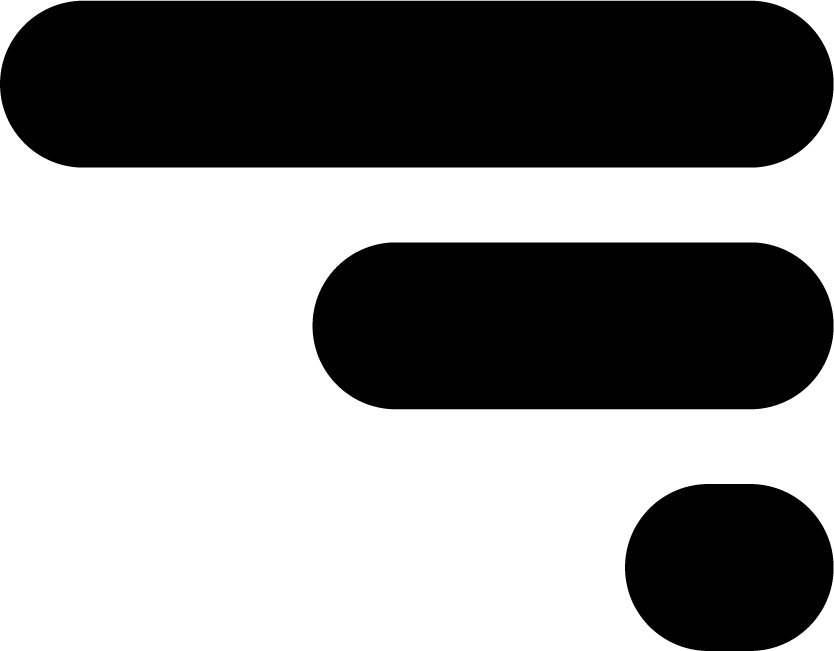
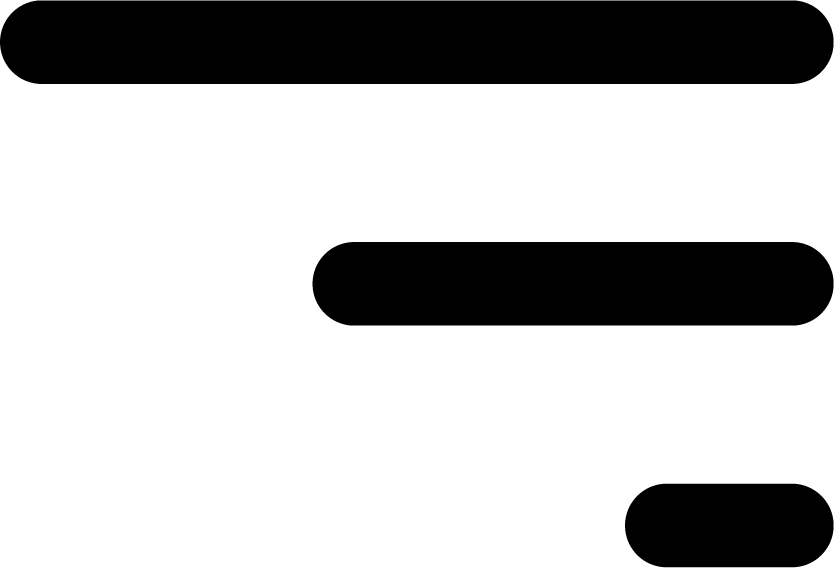
ahwerweuarj

diff --git a/Portfolio/src/components/FirstSection.vue b/Portfolio/src/components/FirstSection.vue
@@ -25,28 +25,33 @@
         height: 100vh;
         display: flex;
         align-items: center;
+        justify-content: center;
         margin: 0;
+
+
         .first-section{
-        display: grid;
-        grid-template-columns: repeat(15, 1fr);
-        align-items: center;
-        gap: 100px;
+        height: 100vh;
         width: 90%;
         margin: 0 auto;
             .image{
-                grid-column-start: 2;
-                grid-column-end: 6;
+                position: absolute;
+                width: 400px;
+                left: 50%;
+                top: 50%;
+                transform: translate(-150%, -50%);
                 .image-sergio{
                     width: 100%;
                     border-radius: 100%;
                 }
             }
             .text{
-                grid-column-start: 6;
-                grid-column-end: 15;
+                position: absolute;
+                left: 50%;
+                top: 50%;
+                transform: translate(-20%, -50%);
                 text-align: center;
                 .name-first-section{
-                    font-size: 100px;
+                    font-size: 5.5em;
                     margin-bottom: 0;
                 }
                 .subtitle-first-section{
@@ -54,6 +59,72 @@
                 }
             }
         } 
+
+
+        // .first-section{
+        // display: grid;
+        // grid-template-columns: repeat(15, 1fr);
+        // align-items: center;
+        // gap: 100px;
+        // width: 90%;
+        // margin: 0 auto;
+        //     .image{
+        //         grid-row-start: 1;
+        //         grid-column-start: 2;
+        //         grid-column-end: 6;
+        //         .image-sergio{
+        //             width: 100%;
+        //             border-radius: 100%;
+        //         }
+        //     }
+        //     .text{
+        //         grid-row-start: 1;
+        //         grid-column-start: 7;
+        //         grid-column-end: 15;
+        //         text-align: center;
+        //         .name-first-section{
+        //             width: fit-content;
+        //             font-size: 100px;
+        //             margin-bottom: 0;
+        //         }
+        //         .subtitle-first-section{
+        //             font-size: 25px;
+        //         }
+        //     }
+        // } 
+
+
+        // .first-section{
+        // display: grid;
+        // grid-template-columns: repeat(7, 1fr);
+        // align-items: center;
+        // gap: 100px;
+        // padding: 0 10% 0 10%;
+        //     .image{
+        //         grid-column-start: 1;
+        //         grid-column-end: 4;
+        //         display: flex;
+        //         justify-content: flex-end;
+        //         .image-sergio{
+        //             width: 75%;
+        //             border-radius: 100%;
+        //         }
+        //     }
+        //     .text{
+        //         text-align: center;
+        //         grid-column-start: 4;
+        //         grid-column-end: 8;
+        //         .name-first-section{
+        //             font-size: 5.5em;
+        //             margin-bottom: 0;
+        //         }
+        //         .subtitle-first-section{
+        //             font-size: 25px;
+        //         }
+        //     }
+        // } 
+
+
         // .first-section{
         // display: flex;
         // flex-direction: row;
@@ -61,15 +132,16 @@
         // width: 90%;
         // margin: 0 auto;
         //     .image{
-        //         width: 400px;
+        //         width: 40%;
+        //         display: flex;
+        //         justify-content: end;
         //         .image-sergio{
-        //             width: 100%;
+        //             align-self: right;
+        //             width: 80%;
         //             border-radius: 100%;
         //         }
         //     }
         //     .text{
-        //         grid-column-start: 6;
-        //         grid-column-end: 15;
         //         text-align: center;
         //         .name-first-section{
         //             font-size: 100px;
@@ -81,6 +153,103 @@
         //     }
         // } 
     }
+    @media only screen and (max-width: 1600px) {
+        .container{
+            .first-section{
+                .image{
+                position: absolute;
+                width: 300px;
+                left: 50%;
+                top: 50%;
+                transform: translate(-150%, -50%);
+                    .image-sergio{
+                        width: 100%;
+                        border-radius: 100%;
+                    }
+                }
+                .text{
+                    .name-first-section{
+                        font-size: 4.5em;
+                        margin-bottom: 0;
+                    }
+                    .subtitle-first-section{
+                        font-size: 25px;
+                    }
+                }
+            } 
+        }   
+    }
+    @media only screen and (max-width: 1150px) {
+        .container{
+            .first-section{
+                .image{
+                position: absolute;
+                width: 200px;
+                left: 50%;
+                top: 62%;
+                transform: translate(-50%, -50%);
+                    .image-sergio{
+                        width: 100%;
+                        border-radius: 100%;
+                    }
+                }
+                .text{
+                width: 90%;
+                position: absolute;
+                left: 50%;
+                top: 38%;
+                transform: translate(-50%, -50%);
+                text-align: center;
+                    .name-first-section{
+                        font-size: 35px;
+                        margin-bottom: 0;
+                    }
+                    .subtitle-first-section{
+                        font-size: 15px;
+                    }
+                }
+            } 
+        }   
+    }
+
+
+
+    // @media only screen and (max-width: 1700px) {
+    //     .container{
+    //         .first-section{
+    //         display: grid;
+    //         grid-template-columns: repeat(15, 1fr);
+    //         align-items: center;
+    //         gap: 0;
+    //         width: 90%;
+    //         margin: 0 auto;
+    //             .image{
+    //                 grid-row-start: 2;
+    //                 grid-column-start: 6;
+    //                 grid-column-end: 11;
+    //                 display: flex;
+    //                 justify-content: center;
+    //                 .image-sergio{
+    //                     width: 80%;
+    //                     border-radius: 100%;
+    //                 }
+    //             }
+    //             .text{
+    //                 grid-row-start: 1;
+    //                 grid-column-start: 2;
+    //                 grid-column-end: 15;
+    //                 text-align: center;
+    //                 .name-first-section{
+    //                     font-size: 100px;
+    //                     margin-bottom: 0;
+    //                 }
+    //                 .subtitle-first-section{
+    //                     font-size: 25px;
+    //                 }
+    //             }
+    //         }   
+    //     }
+    // }
     @media only screen and (max-width: 1000px) {
         
     }

diff --git a/Portfolio/src/components/PortfolioHeader.vue b/Portfolio/src/components/PortfolioHeader.vue
@@ -18,6 +18,9 @@ window.addEventListener('scroll', () => {
         <div class="name-logo">
         <h2>SERGIO MORÓN WESTERGAARD</h2>
         </div>
+        <div class="phone-name-logo">
+        <h2>SMW</h2>
+        </div>
         <nav>
         <ul>
             <li class="nav-links"><a href="#scrollToOne" class="nav-links">HJEMME</a></li>
@@ -27,7 +30,7 @@ window.addEventListener('scroll', () => {
         </ul>
         </nav>
         <div class="phone-nav">
-            <img src="../assets/bootstrap-logo.png" alt="">
+            <img src="../assets/burguer-menu.png" alt="" class="phone-nav-icon">
             <div class="phone-nav-links">
 
             </div>
@@ -39,6 +42,7 @@ window.addEventListener('scroll', () => {
 <style lang="scss" scoped>
     header {
         position: fixed;
+        z-index: 1000;
         width: 100%;
         height: 80px;
         display: flex;
@@ -46,7 +50,11 @@ window.addEventListener('scroll', () => {
         align-items: center;
         transition: all 0.4s ease-in-out;
         .name-logo {
-        font-style: italic;
+            font-style: italic;
+        }
+        .phone-name-logo{
+            font-style: italic;
+            display: none;
         }
         nav {
             ul {
@@ -62,11 +70,8 @@ window.addEventListener('scroll', () => {
         }
         .phone-nav{
             display:none;
-            .cls-1 {
-                    fill: #000;
-                    stroke-width: 0px;
-                }
         }
+
     }
 
     .header-wrapper-scrolled {
@@ -74,15 +79,22 @@ window.addEventListener('scroll', () => {
         opacity: 1;
     }
     @media only screen and (max-width: 1000px) {
-        nav{
+        header .name-logo{
             display: none;
-        }   
-        .phone-nav{
+        }
+        header .phone-name-logo{
             display: block;
+        }
+        nav {
+            display: none;
+        }
+        header .phone-nav {
             display: flex;
             width: 40px;
             background-color: #000;
+            .phone-nav-icon{
+                width: 100%;
+            }
         }
-        
     }
 </style>
